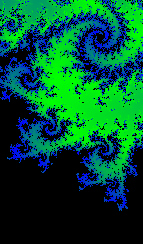
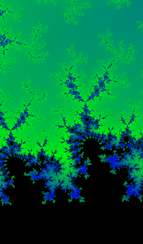
Added Psychedelic Color Scheme
Replaced Settings Form Images

diff --git a/MandelZoom/Mandelbrot.cs b/MandelZoom/Mandelbrot.cs
@@ -115,19 +115,27 @@
 			int value = iterations % 255;
 			return Color.FromArgb(value + 1, value + 1, value + 1);
 		}
-		internal static Color NeonGlowColorColorFunction(int iterations, double magnitude)
+		internal static Color NeonGlowColorFunction(int iterations, double magnitude)
 		{
 			if (iterations < 0) return Color.Black;
 			int value = iterations % 512;
 			if (value > 255) value = 511 - value;
 			return Color.FromArgb(0, value, 255 - value);
 		}
-		internal static Color SolarFlareColorColorFunction(int iterations, double magnitude)
+		internal static Color SolarFlareColorFunction(int iterations, double magnitude)
 		{
 			if (iterations < 0) return Color.Black;
 			int value = (iterations + 128) % 256;
 			if (value > 127) value = 255 - value;
 			return Color.FromArgb(255, value + 128, 0);
+		}
+		internal static Color PsychedelicColorFunction(int iterations, double magnitude)
+		{
+			if (iterations < 0) return Color.Black;
+			int red = (magnitude >= 16) ? 1 : 255 - (int)(((magnitude - 4) / 12) * 254);
+			int green = ((iterations * 4) % 255) + 1;
+			int blue = 255 - (((iterations * 4) + 127) % 255);
+			return Color.FromArgb(red, green, blue);
 		}
 
 		private static bool IsViableRegion(Bitmap testBitmap, Rectangle testRectangle)
@@ -172,9 +180,9 @@
 			{
 				double currentXSquared = currentX * currentX;
 				double currentYSquared = currentY * currentY;
-				if (currentXSquared + currentYSquared >= 4)
+				if (currentXSquared + currentYSquared >= 16)
 				{
-					if ((previousX * previousX) + (previousY * previousY) >= 4)
+					if ((previousX * previousX) + (previousY * previousY) >= 16)
 					{
 						finalMagnitude = Math.Sqrt((previousX * previousX) + (previousY * previousY));
 						return counter - 1;

diff --git a/MandelZoom/Properties/Resources.Designer.cs b/MandelZoom/Properties/Resources.Designer.cs
@@ -73,6 +73,16 @@ namespace MandelZoom.Properties {
         /// <summary>
         ///   Looks up a localized resource of type System.Drawing.Bitmap.
         /// </summary>
+        internal static System.Drawing.Bitmap Psychedelic {
+            get {
+                object obj = ResourceManager.GetObject("Psychedelic", resourceCulture);
+                return ((System.Drawing.Bitmap)(obj));
+            }
+        }
+        
+        /// <summary>
+        ///   Looks up a localized resource of type System.Drawing.Bitmap.
+        /// </summary>
         internal static System.Drawing.Bitmap SilverFrost {
             get {
                 object obj = ResourceManager.GetObject("SilverFrost", resourceCulture);

diff --git a/MandelZoom/ScreenSaverForm.cs b/MandelZoom/ScreenSaverForm.cs
@@ -157,10 +157,13 @@
 					this.colorFunction = Mandelbrot.SilverFrostColorFunction;
 					break;
 				case 1:
-					this.colorFunction = Mandelbrot.NeonGlowColorColorFunction;
+					this.colorFunction = Mandelbrot.NeonGlowColorFunction;
 					break;
 				case 2:
-					this.colorFunction = Mandelbrot.SolarFlareColorColorFunction;
+					this.colorFunction = Mandelbrot.SolarFlareColorFunction;
+					break;
+				case 3:
+					this.colorFunction = Mandelbrot.PsychedelicColorFunction;
 					break;
 			}
 		}

diff --git a/MandelZoom/Properties/AssemblyInfo.cs b/MandelZoom/Properties/AssemblyInfo.cs
@@ -32,6 +32,6 @@ using System.Runtime.InteropServices;
 // You can specify all the values or you can default the Build and Revision Numbers 
 // by using the '*' as shown below:
 // [assembly: AssemblyVersion("1.0.*")]
-[assembly: AssemblyVersion("1.0.0.0")]
-[assembly: AssemblyFileVersion("1.0.0.0")]
+[assembly: AssemblyVersion("1.1.0.0")]
+[assembly: AssemblyFileVersion("1.1.0.0")]
 [assembly: NeutralResourcesLanguageAttribute("en-US")]

diff --git a/MandelZoom/SettingsForm.cs b/MandelZoom/SettingsForm.cs
@@ -40,6 +40,11 @@
 					this.creatorLinkLabel.LinkColor = Color.Orange;
 					this.creatorLinkLabel.ActiveLinkColor = Color.Yellow;
 					break;
+				case 3:
+					this.pictureBox.Image = Resources.Psychedelic;
+					this.creatorLinkLabel.LinkColor = Color.LightPink;
+					this.creatorLinkLabel.ActiveLinkColor = Color.LightGreen;
+					break;
 			}
 			Settings.Default.ColorScheme = this.colorSchemeComboBox.SelectedIndex;
 		}

diff --git a/MandelZoom/SettingsForm.Designer.cs b/MandelZoom/SettingsForm.Designer.cs
@@ -83,7 +83,8 @@
 			this.colorSchemeComboBox.Items.AddRange(new object[] {
             "Silver Frost",
             "Neon Glow",
-            "Solar Flare"});
+            "Solar Flare",
+            "Psychedelic"});
 			this.colorSchemeComboBox.Location = new System.Drawing.Point(6, 19);
 			this.colorSchemeComboBox.Name = "colorSchemeComboBox";
 			this.colorSchemeComboBox.Size = new System.Drawing.Size(126, 21);
